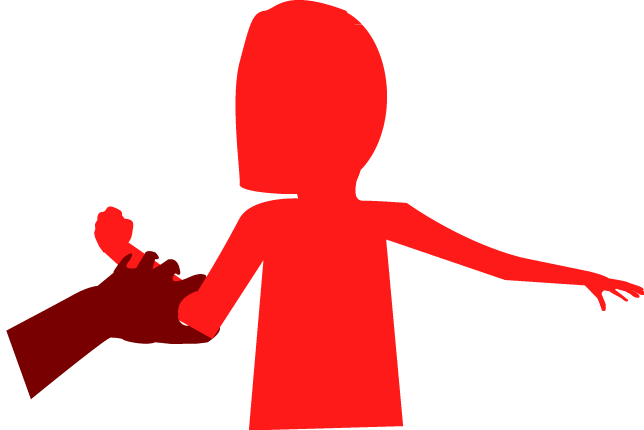
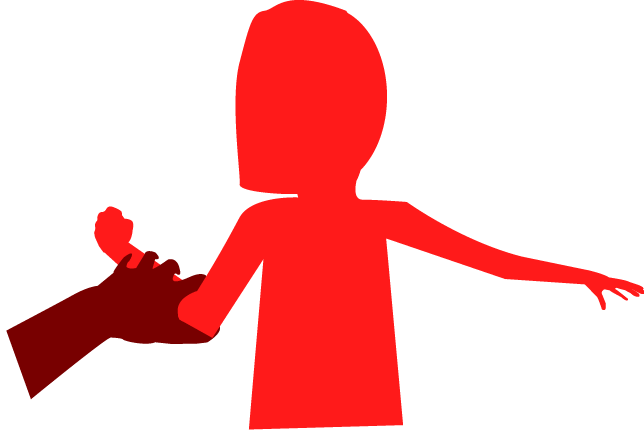
màj 14/01/14
page 4

diff --git a/c/page3.html b/c/page3.html
@@ -9,7 +9,7 @@
 	<body>
 		<main id="fond2">
 
-			<div id="poupee2"><a href="../d/page3.html"><img src="images/poupee.png"></a></div>
+			<div id="poupee2"><a href="../d/page3.html"><img src="images/poupee_3.png"></a></div>
 			<div id="epicier1"><a href="../a/page3.html"><img src="images/epicier.png"></a></div>
 			<div id="fille2"><a href="../b/page3.html"><img src="images/fille_2.png"></a></div>
 		</main>
